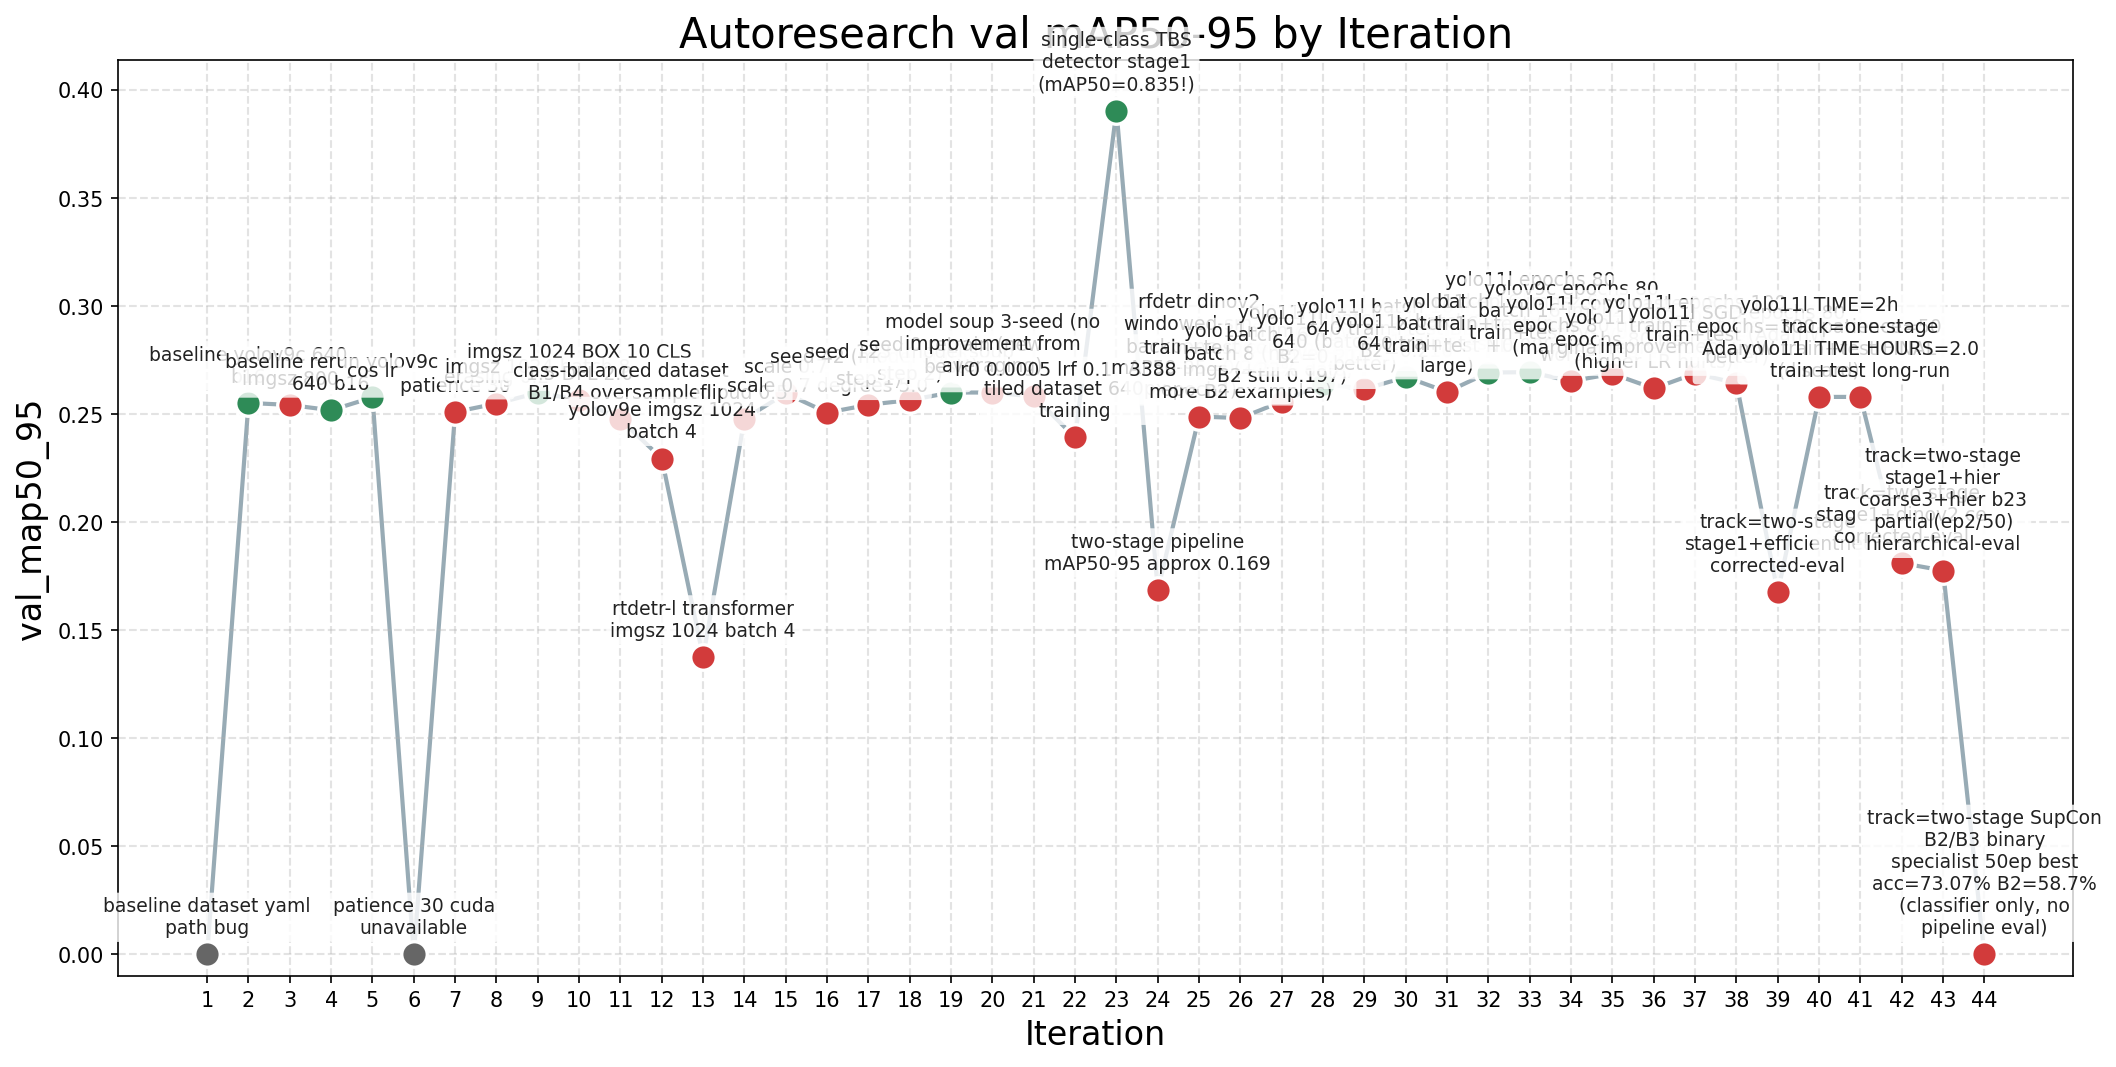
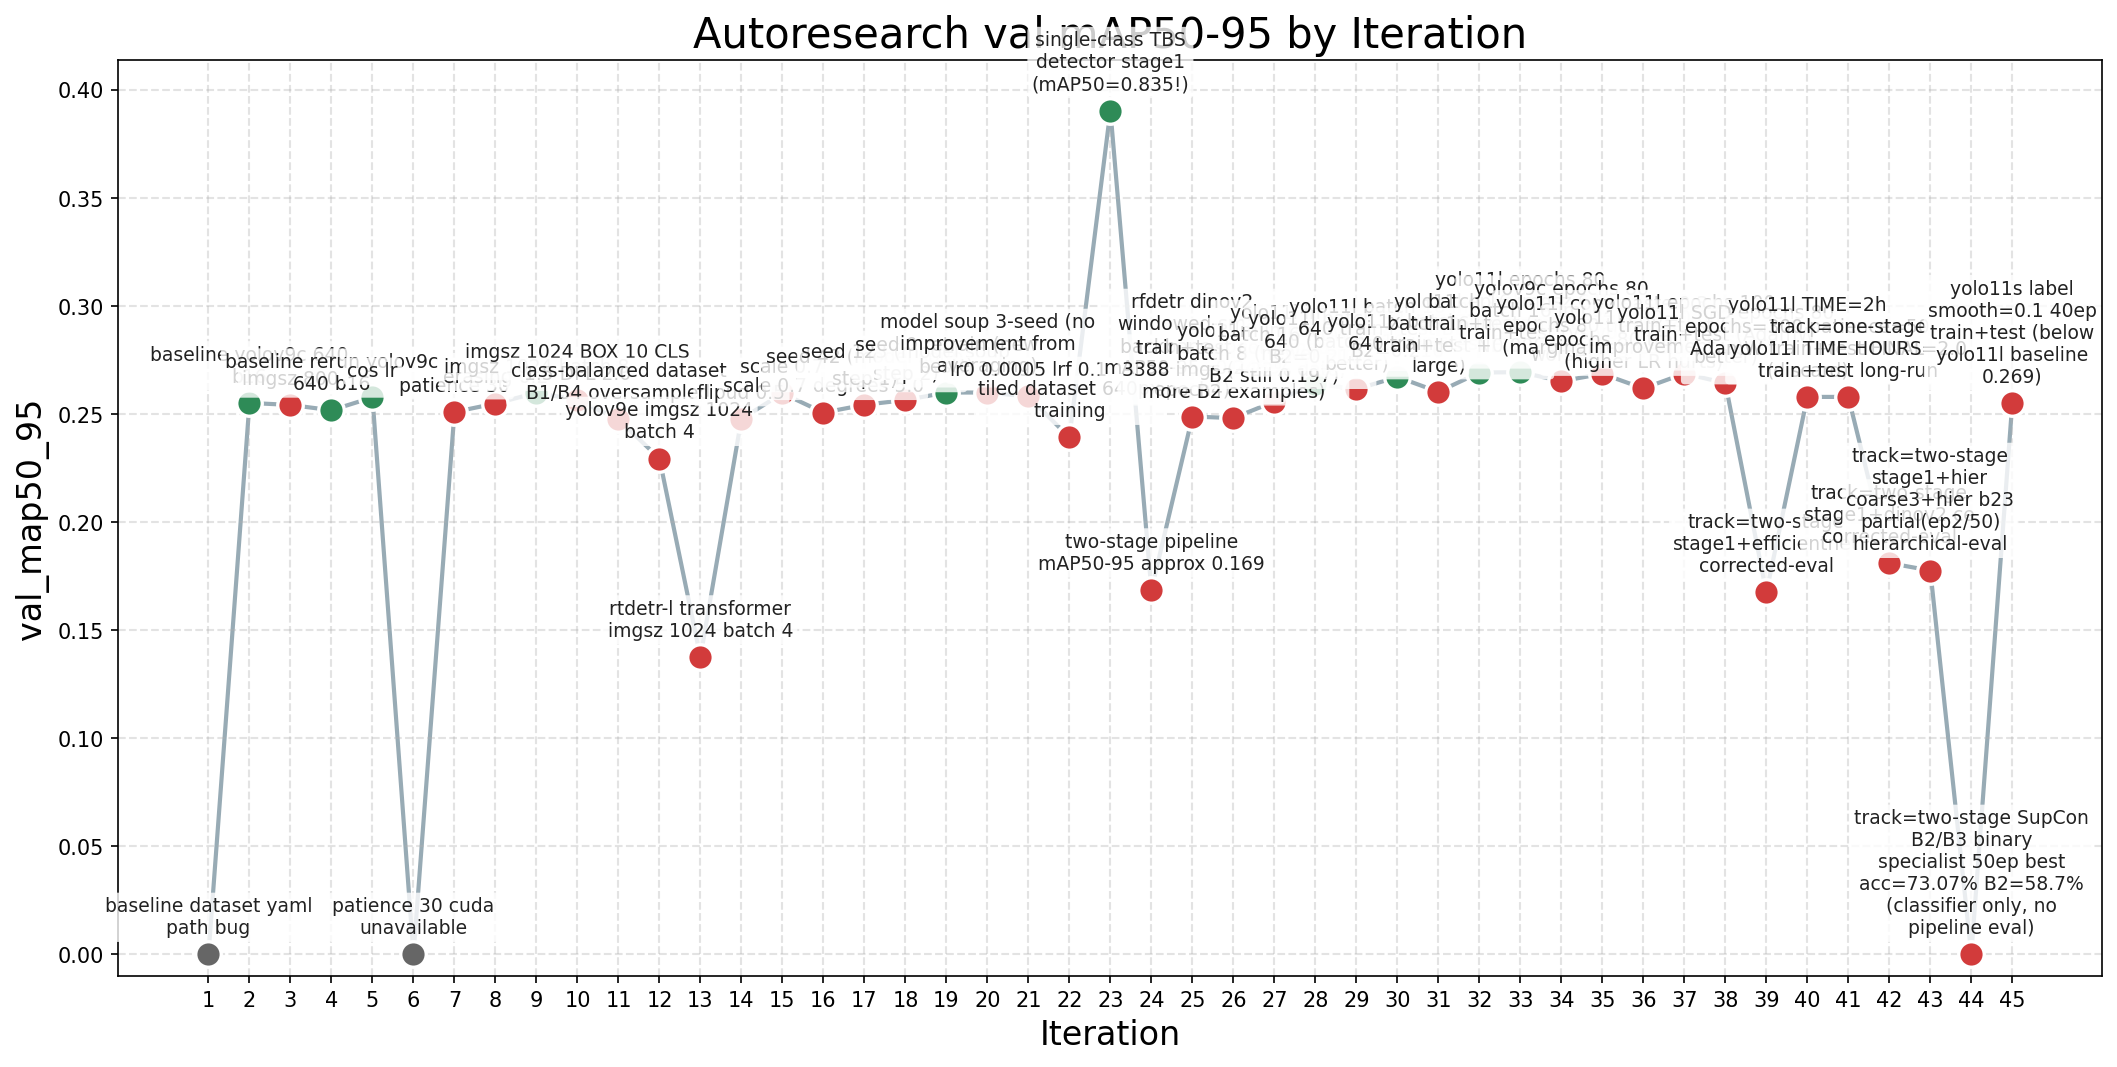
telemetry: Exp20 yolo11s label_smooth=0.1 DISCARD (0.255 < baseline 0.269)
- val_map50_95=0.255244, B1=0.430 B2=0.206 B3=0.255 B4=0.129
- yolo11s smaller than baseline yolo11l — cannot isolate label_smooth effect
- Next: yolo11m + label_smooth=0.1 for fair comparison

Changed region(s): [[0.1248, 0.0, 0.9981, 0.9897], [0.0312, 0.7113, 0.2495, 0.8969], [0.0624, 0.3093, 0.1248, 0.3402]]

diff --git a/research/experiment-journal.md b/research/experiment-journal.md
@@ -571,3 +571,18 @@ B4:    2   194  358
 
 **Falsification**: If SupCon doesn't improve binary accuracy over CE, then the B2/B3 ambiguity is not solvable via representation learning — it is inherent label noise, and no classifier will fix it.
 
+
+
+## Experiment 20 — 2026-03-15 15:07 UTC — Label Smoothing 0.1 on yolo11s
+
+**Hypothesis**: label_smoothing=0.1 will reduce overconfident wrong predictions on B2/B3 boundary cases, lifting B2 mAP by penalizing hard labels less.
+
+**Change**: MODEL=yolo11s.pt, label_smoothing=0.1, EPOCHS=40, TIME_HOURS=0.5, Dataset-TrainTest
+
+**Result**: val_map50_95=0.255244 — DISCARD (below yolo11l baseline 0.269424)
+
+**Per-class**: B1=0.430, B2=0.206, B3=0.255, B4=0.129
+
+**Analysis**: yolo11s with label_smoothing reached 0.255 at 57 epochs (time budget expired). This is worse than yolo11l without label_smoothing (0.269). However, we cannot isolate label_smoothing's effect from the model size change (s vs l). B2 at 0.206 — not improved vs baseline 0.216. B4 at 0.129 — worse than baseline 0.152. The smaller model is clearly weaker across all classes. Label smoothing alone cannot compensate for the capacity difference. CONCLUSION: Cannot confirm label smoothing helps without a fair comparison (yolo11l + label_smoothing vs yolo11l baseline). Next step: test label_smoothing on yolo11m to get a fairer signal.
+
+**Next**: Try yolo11m + label_smoothing=0.1 (medium model, 40 epochs) for a fairer comparison vs yolo11l baseline.
